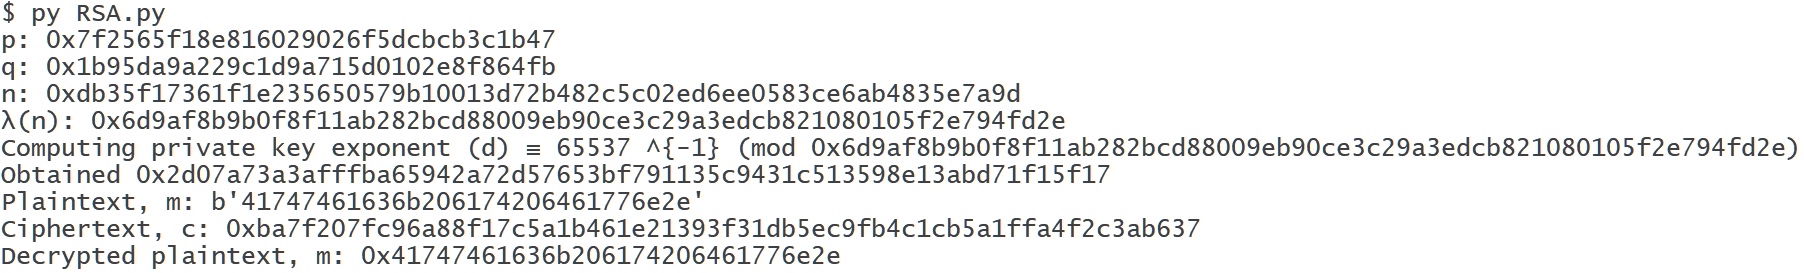
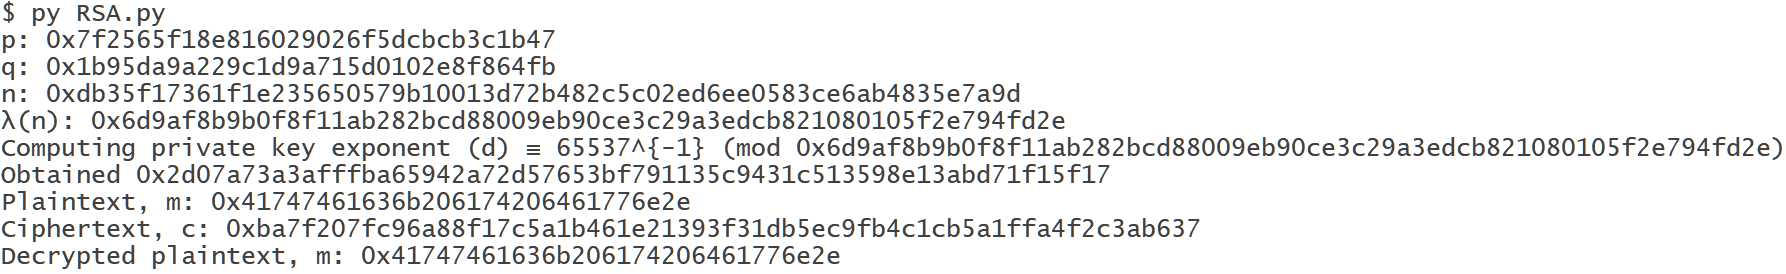
Make RSA output formatting consistent

Changed region(s): [[0.0, 0.2051, 1.0, 0.674], [0.0, 0.7033, 0.6775, 0.9963], [0.0, 0.0, 0.308, 0.1758]]

diff --git a/RSA.py b/RSA.py
@@ -50,12 +50,12 @@ n = p * q
 print('n:', hex(n))
 carmichael = euclidlcm(p - 1, q - 1)
 print('λ(n):', hex(carmichael))
-print('Computing private key exponent (d) ≡', e, '^{-1} (mod', hex(carmichael) + ')')
+print('Computing private key exponent (d) ≡', str(e) + '^{-1} (mod', hex(carmichael) + ')')
 d = extendedeuclidbezout(e, carmichael)[0] % carmichael
 print('Obtained', hex(d))
 
 plaintext = 'Attack at dawn.'
-print('Plaintext, m:', binascii.hexlify(plaintext.encode()))
+print('Plaintext, m:', '0x' + plaintext.encode('ascii').hex())
 
 plaintext = binascii.hexlify(plaintext.encode()).decode()
 
